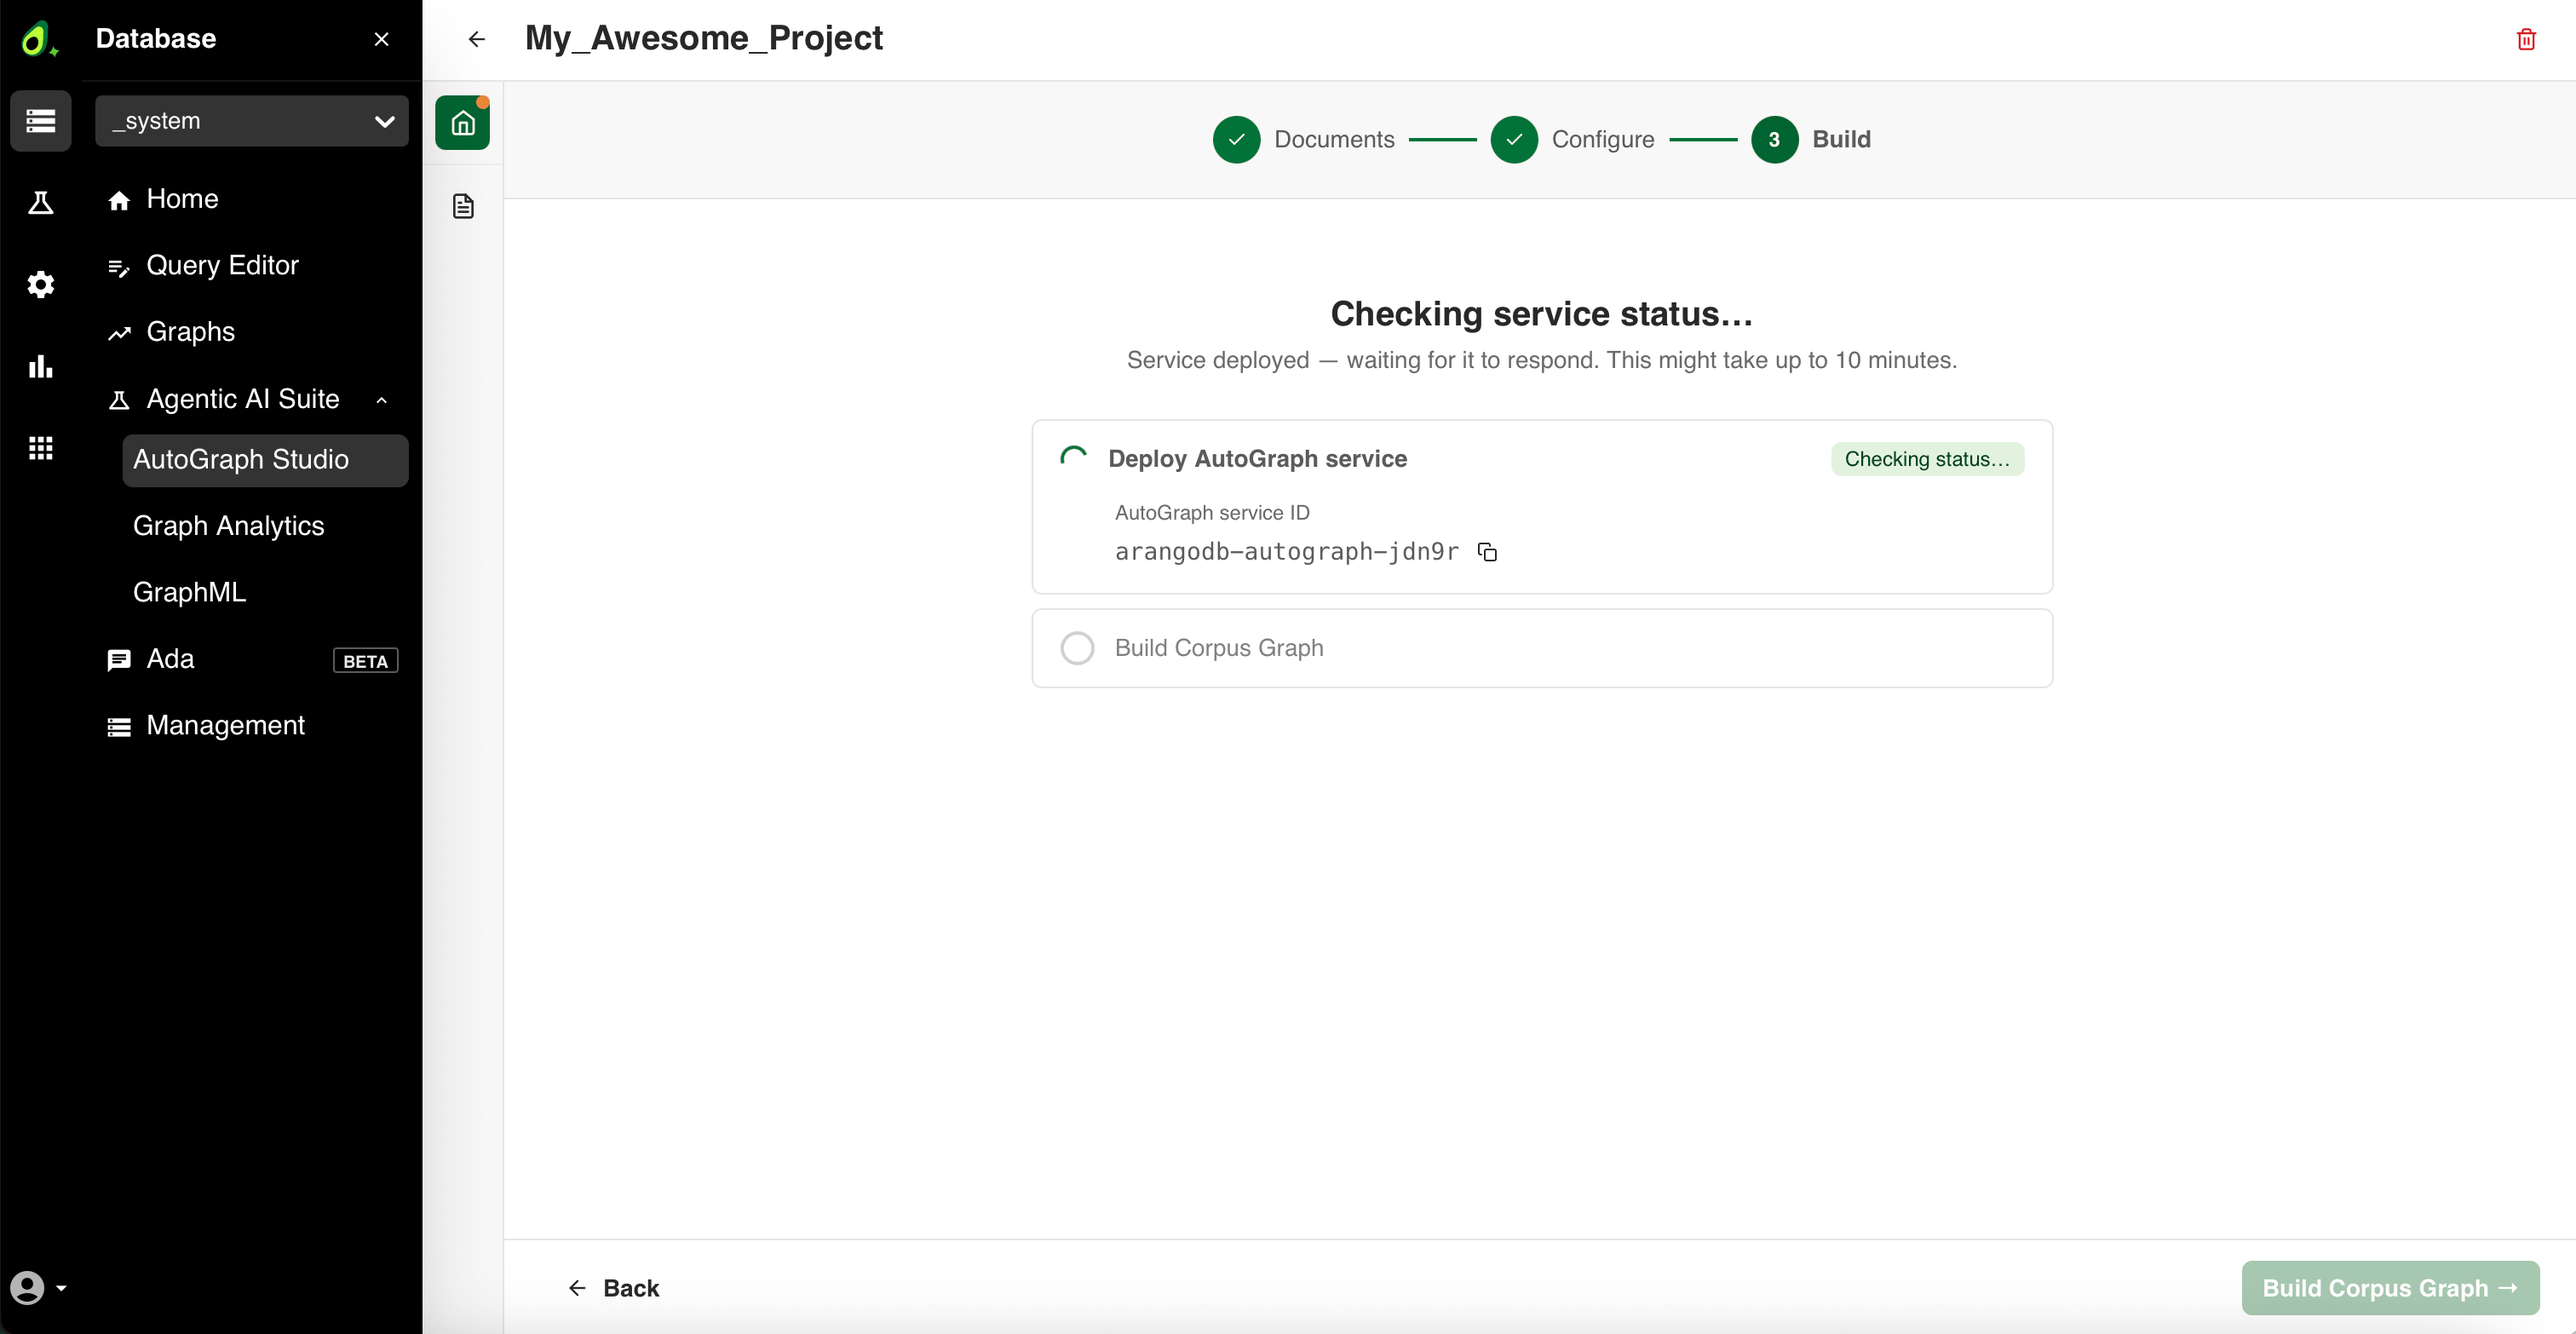
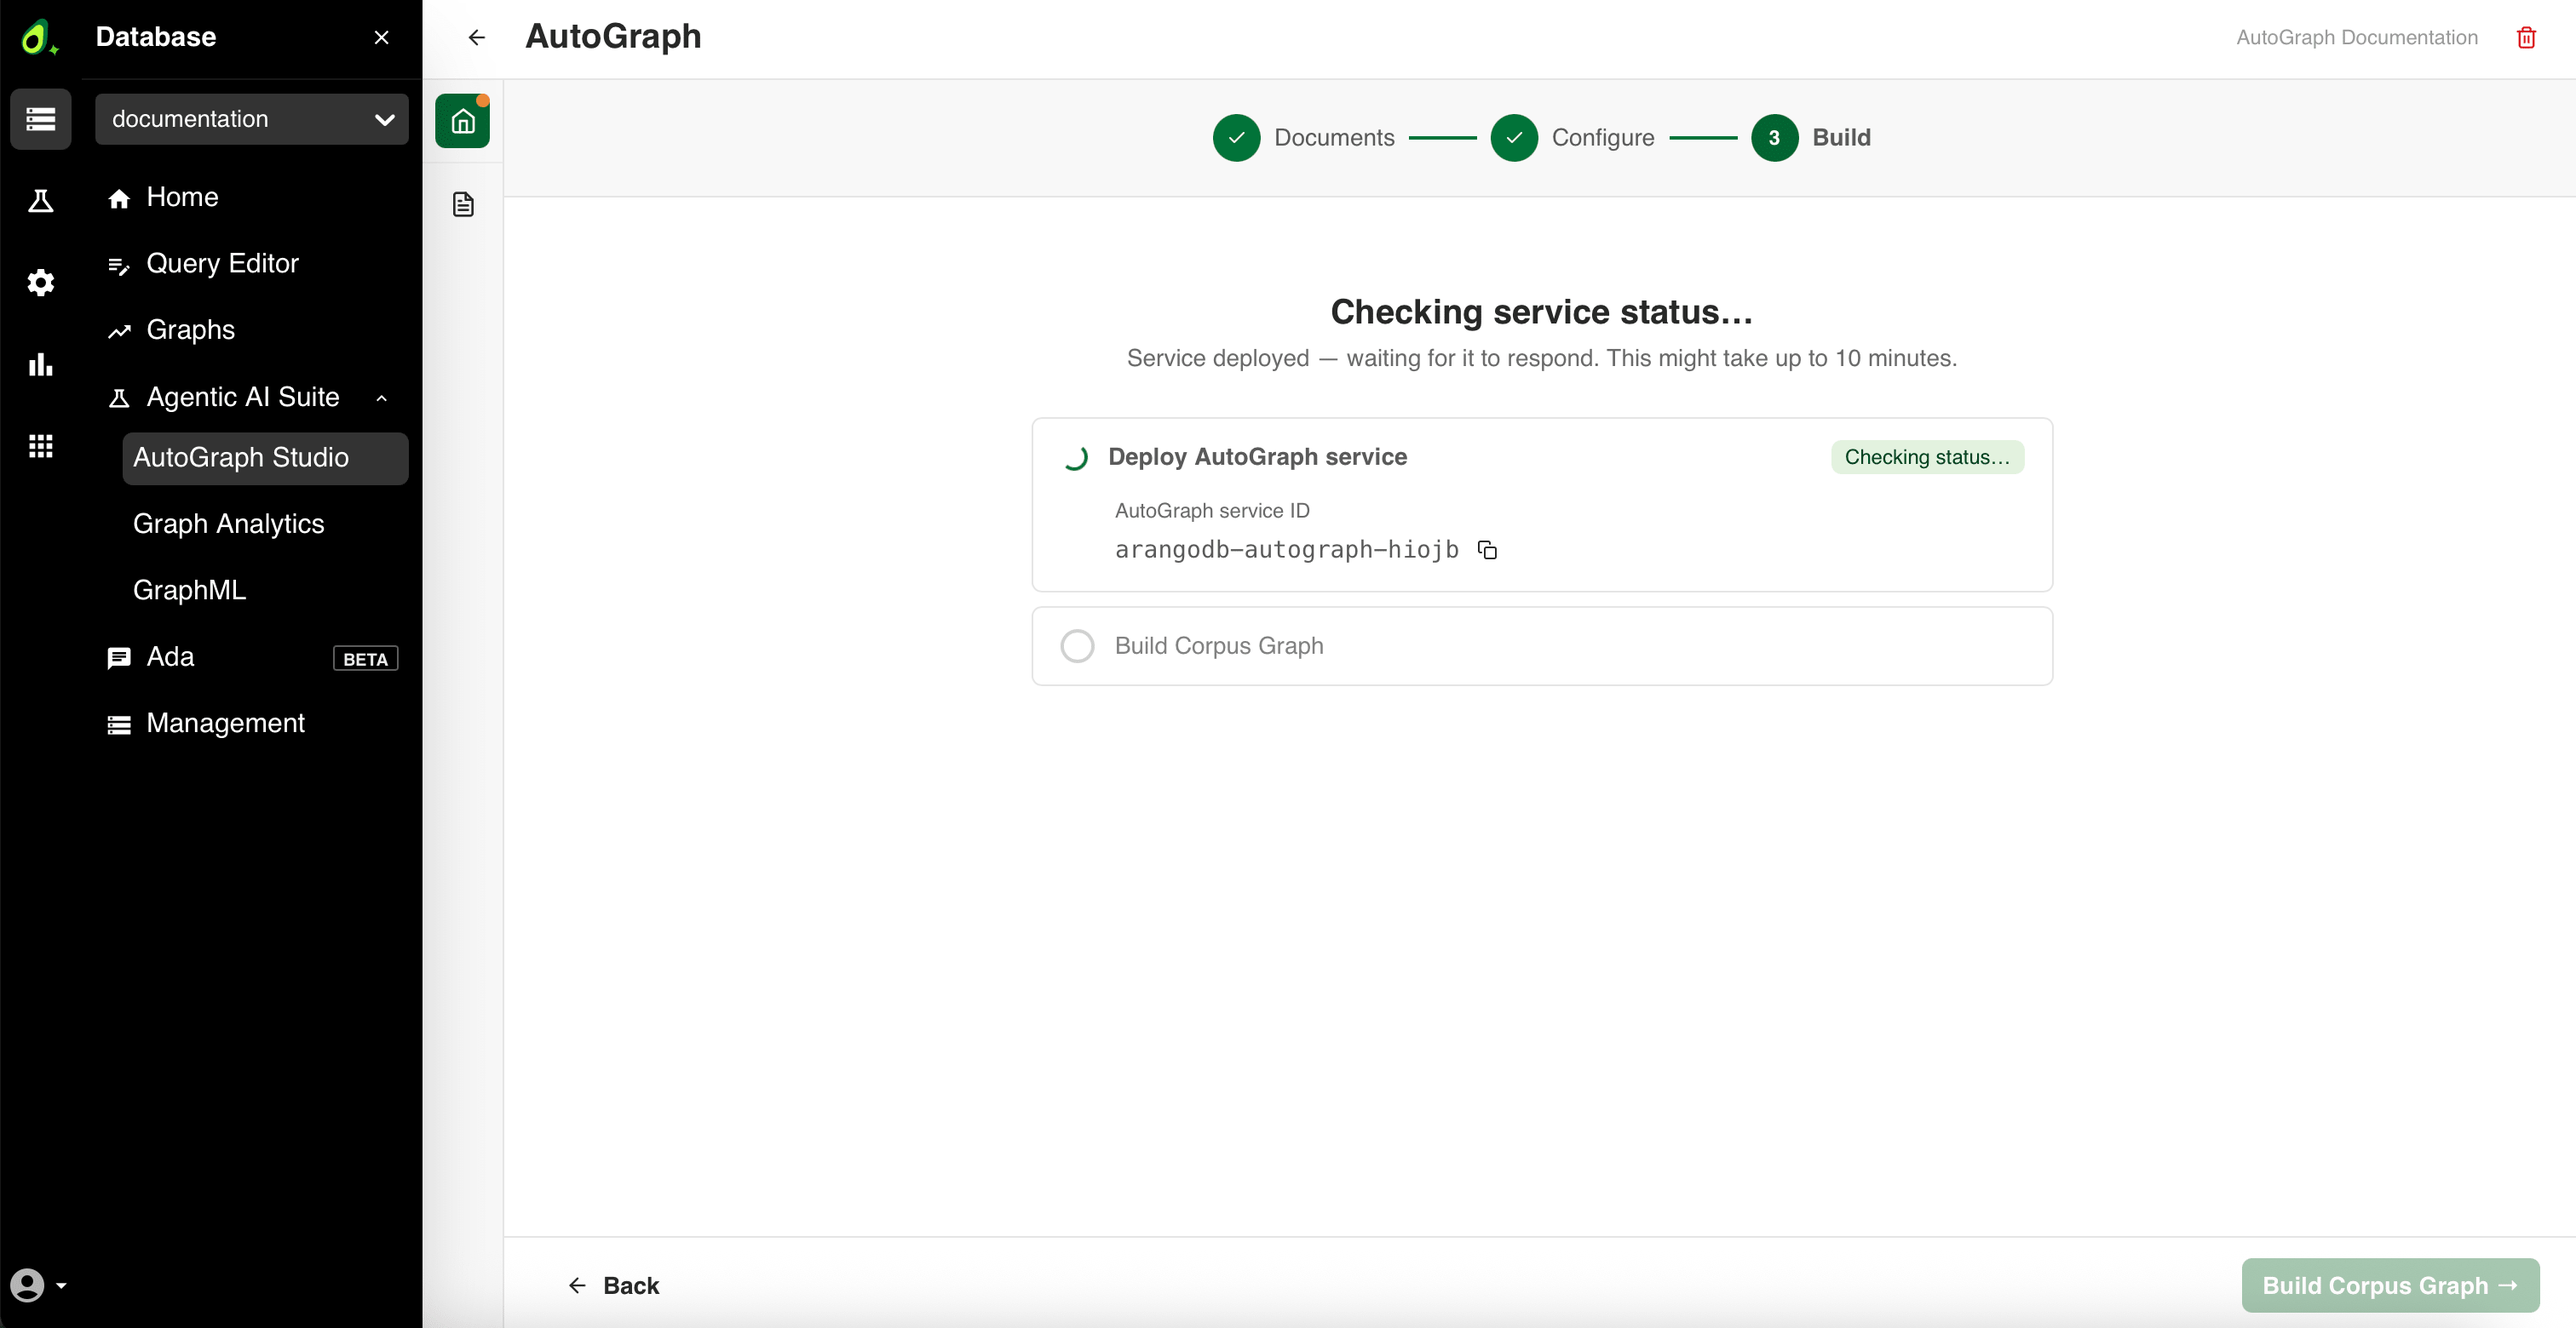
Screens part 1

diff --git a/site/content/agentic-ai-suite/autograph/web-interface.md b/site/content/agentic-ai-suite/autograph/web-interface.md
@@ -37,10 +37,17 @@ in Arango Contextual Data Platform 4.1.0. See
 
 ## Create an AutoGraph project
 
-1. In the **AutoGraph Studio** view, click **+ New Project**.
+1. In the **AutoGraph Studio** view, click **+ New Project**. A database without
+   any projects reports *No projects yet*.
+
+   ![The AutoGraph Studio view of a database without projects](../../images/autograph-ui-studio-empty.png)
+
    Existing projects of the current database are listed in a table with their
    **Name**, **Description**, and **Actions**. Click a column header to sort, use
    **Filters** to narrow the list, and click a project name to open it.
+
+   ![The AutoGraph Studio view listing the projects of a database](../../images/autograph-ui-projects-list.png)
+
 2. The **New project** dialog opens. Enter a **Project name** and, optionally,
    a **Description** of what this project's knowledge base is for.
 
@@ -88,9 +95,24 @@ the project when you continue to the next step.
      filter the list.
    - Remove a single file with the cross icon, or delete a whole category with
      the trash icon.
-   - Repeat the upload to add more categories.
-5. Click **Configure LLM**. The documents are uploaded to the project and the
-   wizard continues to the configuration step automatically.
+   - Repeat the upload to add more categories. Every upload opens its own
+     **Name this category** dialog, and the files you already staged stay pending
+     in the background. The footer counts them across all categories, for example
+     *17 pending upload*.
+
+     ![The Name this category dialog of a second upload](../../images/autograph-ui-name-category-second.png)
+
+     ![The Name this category dialog of a third upload](../../images/autograph-ui-name-category-third.png)
+
+5. Click **Configure LLM**. The documents are uploaded to the project, with the
+   progress reported as *Uploading `<N>` documents…*, and the wizard continues to
+   the configuration step automatically.
+
+   ![The Documents step uploading the staged documents](../../images/autograph-ui-documents-uploading.png)
+
+   The categories are listed with their file counts once the upload completes.
+
+   ![The Documents step with three uploaded categories](../../images/autograph-ui-documents-uploaded.png)
 
 {{< tip >}}
 If you drop a folder, its name is used as the category name. For loose files,
@@ -101,7 +123,7 @@ you name the category yourself.
 
 In the **Configure** step, choose the LLM provider used to build the Corpus
 Graph. A banner confirms what you are building from, for example
-*Building from 3 documents across 1 category*. A callout summarizes what
+*Building from 35 documents across 3 categories*. A callout summarizes what
 clicking **Start build** does: it deploys the AutoGraph service with these
 settings and builds the Corpus Graph from your uploaded documents. When it is
 ready, the wizard finishes at your project overview, where you can generate
@@ -172,15 +194,23 @@ happens during the corpus build, see [Corpus Build](reference/corpus-build.md).
    for it to respond, showing *Checking service status…* and
    *Service deployed — waiting for it to respond. This might take up to 10
    minutes.* The **AutoGraph service ID** is displayed, for example
-   `arangodb-autograph-jdn9r`. Wait for the confirmation message
-   **AutoGraph service deployed**.
+   `arangodb-autograph-hiojb`.
 
    ![The Build step of the AutoGraph setup wizard waiting for the service](../../images/autograph-ui-build.png)
 
+   Wait for the confirmation message **AutoGraph service deployed**.
+
+   ![The Build step with the AutoGraph service deployed](../../images/autograph-ui-build-deployed.png)
+
 2. Click **Build Corpus Graph**.
-3. **Build corpus**: Your documents are extracted into the Corpus Graph. When it
-   completes, a **Corpus Graph ready** notification appears and the project
-   overview opens.
+3. **Build corpus**: Your documents are extracted into the Corpus Graph. The
+   **Build Corpus Graph** step is marked as **Running** while it extracts your
+   documents, which can take a while for large document sets.
+
+   ![The Build step building the Corpus Graph](../../images/autograph-ui-build-corpus.png)
+
+   When it completes, a **Corpus Graph ready** notification appears and the
+   project overview opens.
 
 {{< info >}}
 If the build fails, the reason is shown above the step list, for example
